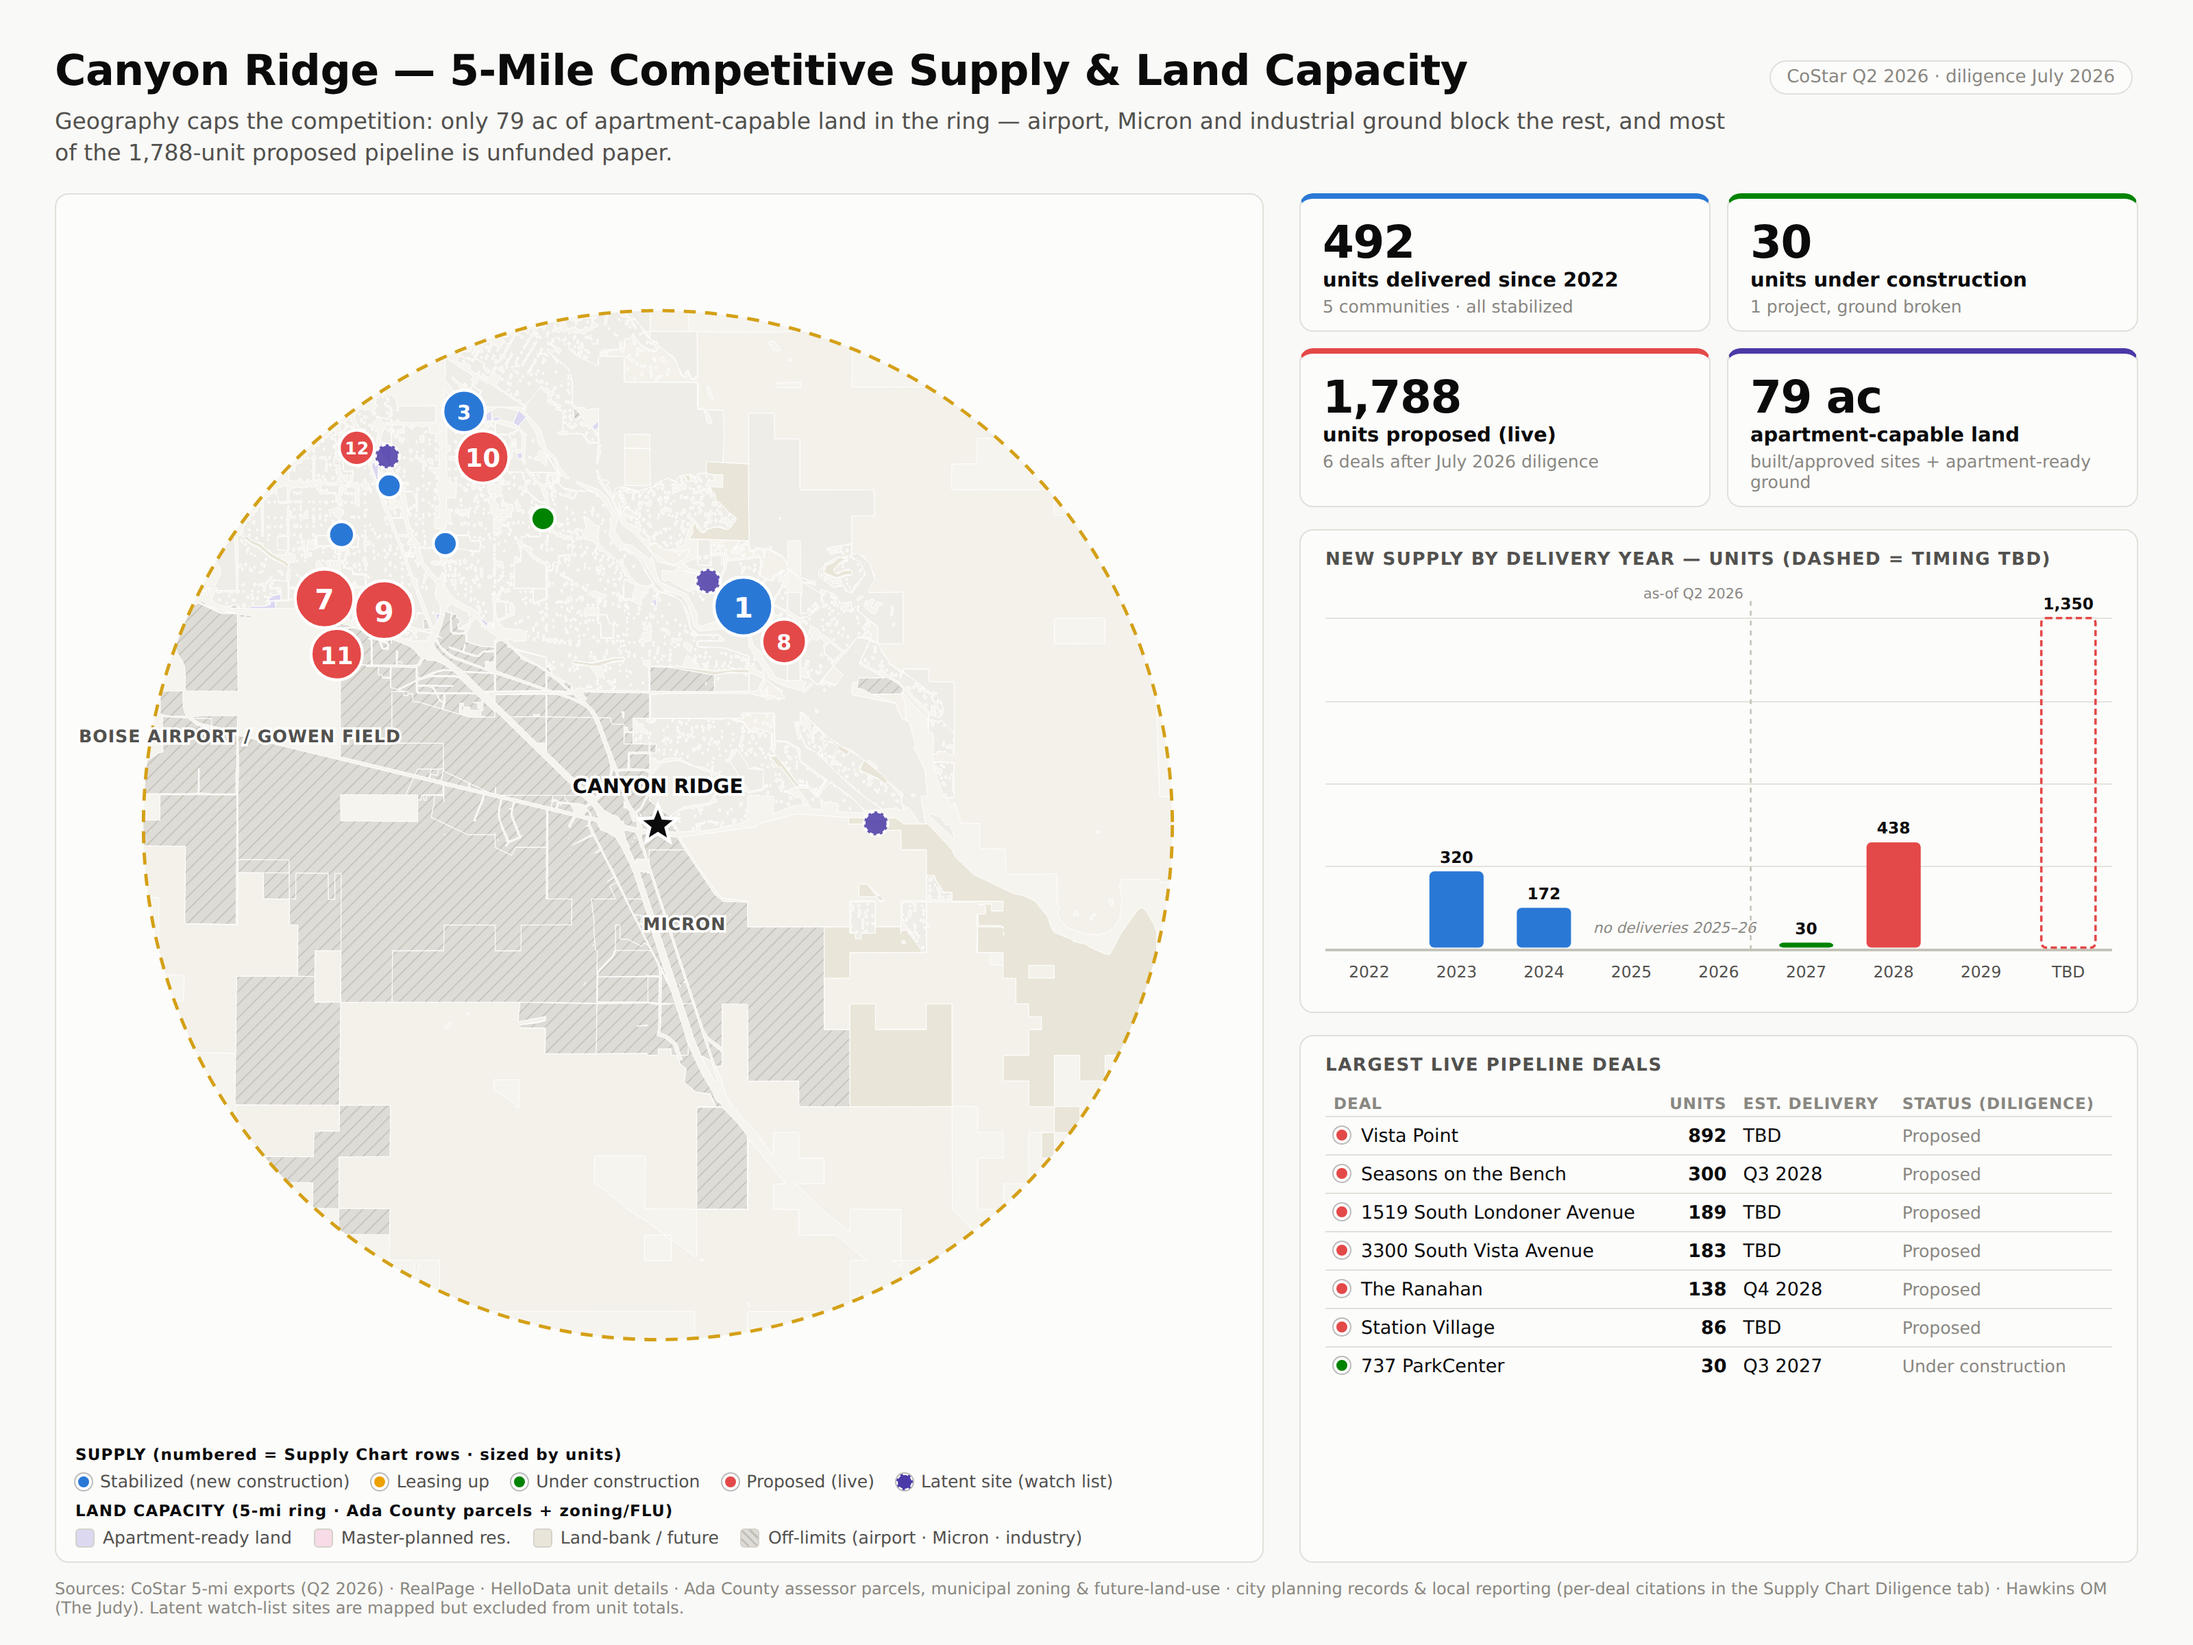
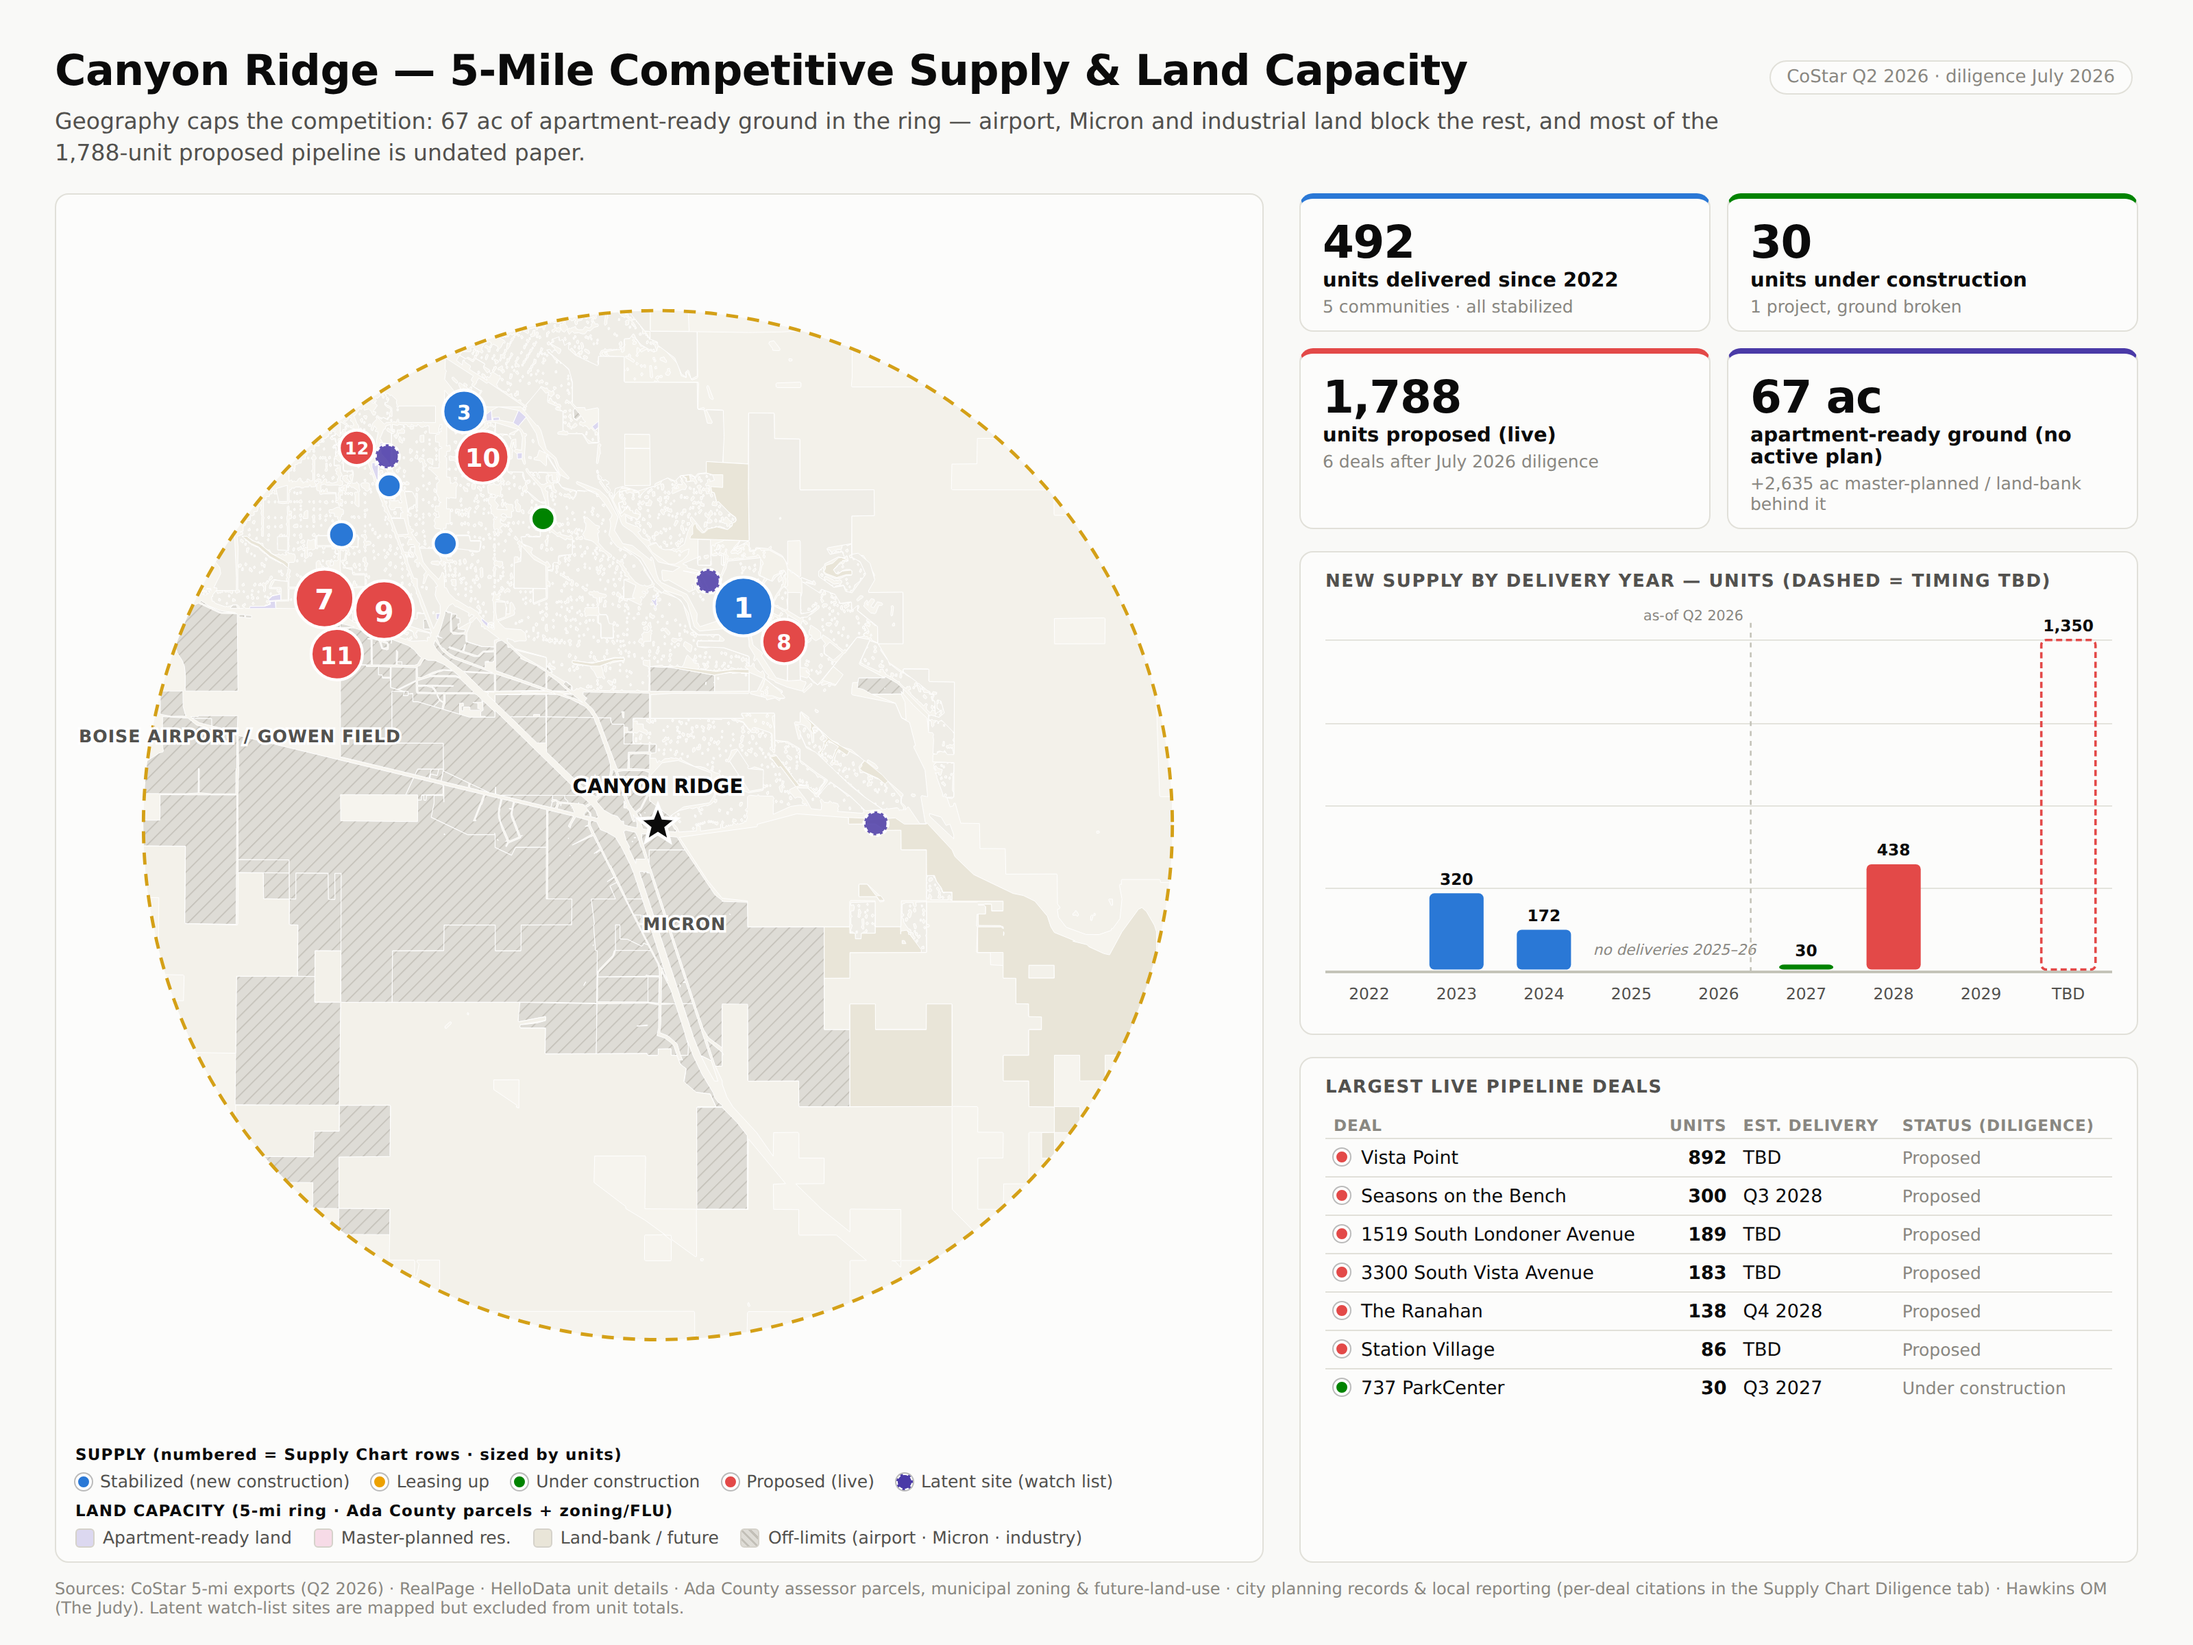
Slide logic fixes: forward-looking acres, stalled deals out of live totals
- Land KPI now counts only apartment-ready ground with no active plan
  (67 ac CR / 631 ac SaM); master-planned + land-bank acreage moves to the
  sub-line — built/approved sites no longer double-count against the unit
  tiles.
- Stalled deals (Union 93) are excluded from the live-proposed KPI and the
  delivery timeline (kept on map + deals table, flagged 'not in totals');
  a 'proposed' deal dated on/before the as-of quarter falls to TBD.
- Takeaways updated to the corrected numbers.

Claude-Session: https://claude.ai/code/session_01Gzof5jycbxc5BFsHyg4DJw

diff --git a/summary/build_slides.py b/summary/build_slides.py
@@ -21,9 +21,9 @@ SLIDES = [
         supply_map="CanyonRidge/supply/Canyon_Ridge__Map.html",
         out_html="cr_slide.html",
         title="Canyon Ridge — 5-Mile Competitive Supply & Land Capacity",
-        takeaway=("Geography caps the competition: only 79 ac of apartment-capable land in the ring — "
-                  "airport, Micron and industrial ground block the rest, and most of the 1,788-unit "
-                  "proposed pipeline is unfunded paper."),
+        takeaway=("Geography caps the competition: 67 ac of apartment-ready ground in the ring — airport, "
+                  "Micron and industrial land block the rest, and most of the 1,788-unit proposed "
+                  "pipeline is undated paper."),
         landmarks=[("Boise Airport / Gowen Field", 43.5535, -116.2330),
                    ("Micron", 43.5270, -116.1465)],
         tl_note=("no deliveries 2025\u201326", 3.5),
@@ -34,8 +34,8 @@ SLIDES = [
         out_html="sam_slide.html",
         title="Seasons at Meridian — 5-Mile Competitive Supply & Land Capacity",
         takeaway=("Supply pressure is real and persistent: 815 units still in lease-up, 716 under "
-                  "construction and 3,176 proposed — with 1,094 ac of apartment-capable land behind "
-                  "them, timing (not capacity) is the constraint."),
+                  "construction and 2,826 live-proposed (+350 stalled in foreclosure) — with 631 ac of "
+                  "apartment-ready ground behind them, timing, not capacity, is the constraint."),
         landmarks=[("Ten Mile / I-84", 43.5850, -116.4420),
                    ("The Village at Meridian", 43.6335, -116.3230)],
     ),
@@ -187,6 +187,11 @@ def build_slide(cfg, sections, acres_by_subject):
         return (it["n"], it["u"]) if it else (0, 0)
     n_stab, u_stab = leg_get("stab"); n_lease, u_lease = leg_get("lease")
     n_uc, u_uc = leg_get("uc"); n_prop, u_prop = leg_get("prop")
+    def is_stalled(p):
+        return "stalled" in (p.get("notes") or "").lower()
+    stalled = [p for p in comps if bucket_key(p["bucket"]) == "prop" and is_stalled(p)]
+    u_stall = sum(p["units"] or 0 for p in stalled)
+    n_prop -= len(stalled); u_prop -= u_stall
     acres = acres_by_subject[cfg["subject"]]
 
     kpis = [
@@ -196,9 +201,10 @@ def build_slide(cfg, sections, acres_by_subject):
         (fmt(u_uc), "units under construction",
          f"{n_uc} project{'s' if n_uc != 1 else ''}, ground broken", C["uc"]),
         (fmt(u_prop), "units proposed (live)",
-         f"{n_prop} deals after July 2026 diligence", C["prop"]),
-        (fmt(acres) + " ac", "apartment-capable land",
-         "built/approved sites + apartment-ready ground", C["latent"]),
+         f"{n_prop} deals after July 2026 diligence"
+         + (f" · +{fmt(u_stall)} stalled, excluded" if u_stall else ""), C["prop"]),
+        (fmt(acres["ready"]) + " ac", "apartment-ready ground (no active plan)",
+         f"+{fmt(acres['behind'])} ac master-planned / land-bank behind it", C["latent"]),
     ]
 
     # ---------- timeline ----------
@@ -209,7 +215,11 @@ def build_slide(cfg, sections, acres_by_subject):
         k = bucket_key(p["bucket"])
         if k == "latent" or not p.get("units"):
             continue
+        if k == "prop" and is_stalled(p):
+            continue                      # stalled: mapped + tabled, not forecast
         y = year_of(p.get("deliver"))
+        if k == "prop" and y and y <= 2026:
+            y = None                      # a "proposed" deal can't deliver by as-of
         if y and y in tl:
             tl[y][k] += p["units"]
         else:
@@ -267,7 +277,7 @@ def build_slide(cfg, sections, acres_by_subject):
         status = "Under construction" if k == "uc" else "Proposed"
         note = ""
         nl = (p.get("notes") or "").lower()
-        if "stalled" in nl: note = " · stalled (foreclosure)"
+        if "stalled" in nl: status, note = "Stalled (foreclosure)", " · not in totals"
         elif "analyst-sourced" in nl: note = " · sourced from OM"
         elif "remand" in nl or "hearings" in nl: note = " · contested"
         rows += (f'<tr><td><span class="dot" style="background:{C[k]}"></span>{p["name"]}</td>'
@@ -358,7 +368,10 @@ def main():
     ss = json.load(open("summary/sections_summary.json"))
     acres = {}
     for subj in ("Canyon Ridge", "Seasons at Meridian"):
-        acres[subj] = sum(ss[k]["by_subject"].get(subj, 0) for k in ("apartments", "apt_ready"))
+        acres[subj] = {
+            "ready": ss["apt_ready"]["by_subject"].get(subj, 0),
+            "behind": sum(ss[k]["by_subject"].get(subj, 0) for k in ("mpc_res", "landbank")),
+        }
     outdir = sys.argv[1] if len(sys.argv) > 1 else "."
     for cfg in SLIDES:
         secs = [f for f in gj["features"] if f["properties"]["subject"] == cfg["subject"]]
